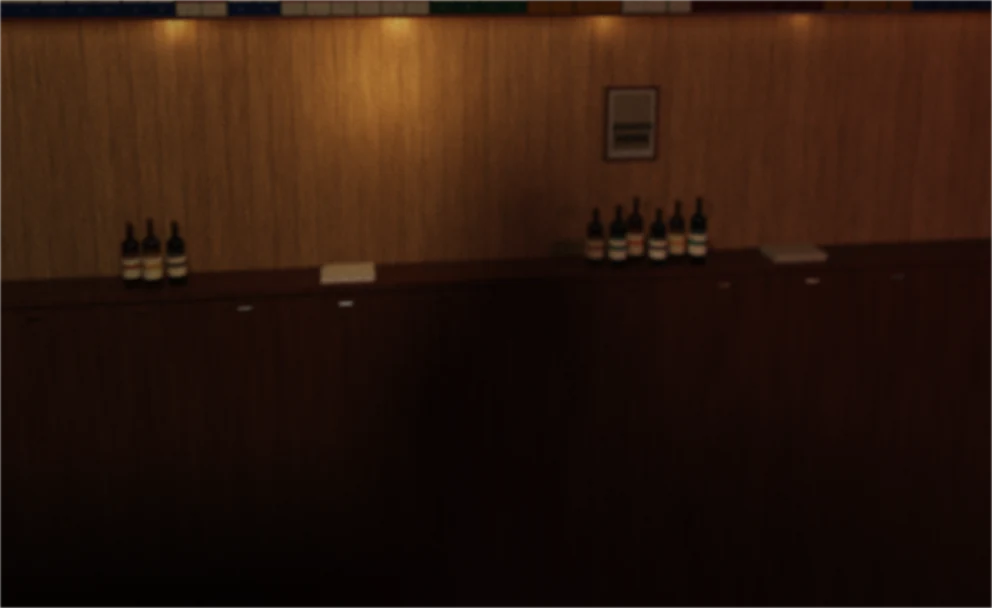
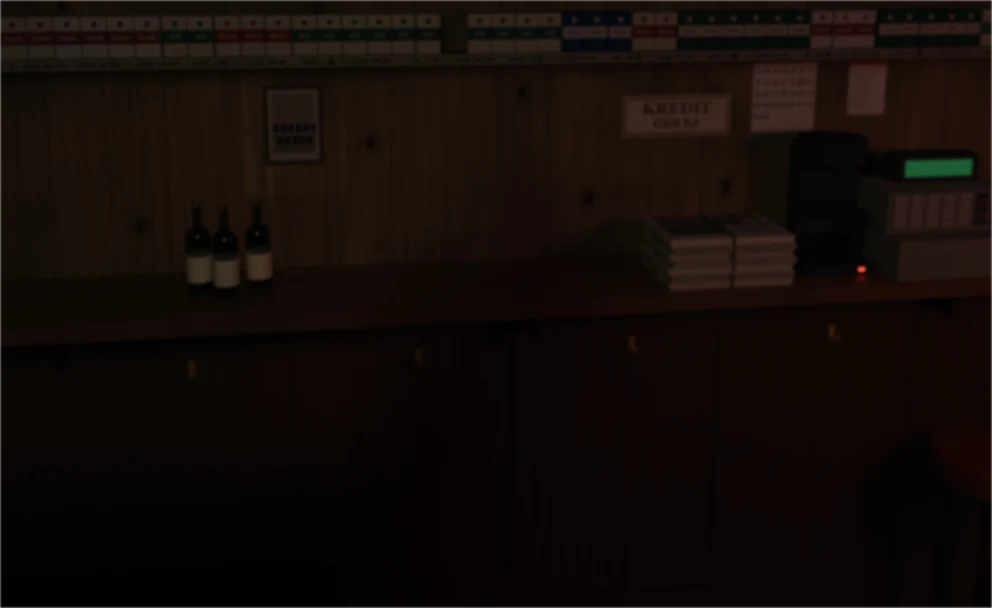
Hasse Backe sitter i samma slitna affär som gänget
Väggen bakom honom såg ut som en hotellbar: smal faner i guldton, blank röd
skänk, vinflaskor och dimmade lampor, och cigarettpaketen hamnade ovanför
bildkanten. Nu är den byggd av rummets egna material: furupanelen med breda
bräder, kvistar och rök, bardisken med fyllningar och mässingskrokar, och
lysrörets ljus. Paketen ligger på en hylla över hans huvud, och på bardisken
står tidningsbunten, kaffebryggaren och kassan. Skylten KREDIT GES EJ sitter
ovanför notan som säger Skrivs på Notts County. Bakom matchlistan är det lugnt.
Alla sex bilder är ombakade, ungefär lika stora som förut.

diff --git a/scripts/hasse/bak.html b/scripts/hasse/bak.html
@@ -1,5 +1,6 @@
 <!doctype html><meta charset="utf-8"><body style="margin:0;background:#222"><canvas id="ut" style="width:900px"></canvas><script type="module">
-// Väggen bakom Hasse Backe i baren: hyllorna, lamporna, flaskorna och bakdisken, spårat med riktigt ljus
+// Väggen bakom Hasse Backe: samma slitna affär som gänget sitter i (rum.js, rum-inredning.js), furupanelen med
+// paketen på en hylla, bardisken med tidningsbunten, kaffebryggaren och kassan, spårat med riktigt ljus
 // (mjuka skuggor, ljus som studsar, blanka ytor, skärpedjup) från figurens kamera (public/rum-hasse-scen.js):
 // framför honom, där han sitter vid pultens hörn. Skarpt där han sitter. Han själv och pulten framför
 // honom syns inte men skuggar och kastar ljus (sidan ritar dem, rum-hasse-3d.js).
@@ -25,7 +26,7 @@ const MARKE = {
 };
 const NAMN = Object.keys(MARKE);
 const CELL = [128, 204];
-const atlas = document.createElement('canvas'); atlas.width = CELL[0] * 8; atlas.height = CELL[1] * 2;
+const atlas = document.createElement('canvas'); atlas.width = 2048; atlas.height = 1024;
 const ax = atlas.getContext('2d');
 NAMN.forEach((n, i) => {
   const [a, b, c, t] = MARKE[n];
@@ -46,11 +47,55 @@ NAMN.forEach((n, i) => {
   for (let r = 0; r < 2; r++) for (let k = 0; k < 6 - r; k++) { const px = x + 12 + (k + r / 2) * 19; const py = CELL[1] * (0.48 + r * 0.17); ax.fillStyle = '#3a3026'; ax.fillRect(px, py, 14, 26); ax.fillStyle = '#d8c4a4'; ax.beginPath(); ax.arc(px + 7, py - 6, 6, 0, 7); ax.fill(); }
 }
 
+// skyltar, lappar och annat som hänger i rummet: [u0, v0, u1, v1] i atlasen
+const region = (x, y, w, h, rita) => { ax.save(); ax.beginPath(); ax.rect(x, y, w, h); ax.clip(); ax.translate(x, y); rita(ax, w, h); ax.restore(); return [x / atlas.width, y / atlas.height, (x + w) / atlas.width, (y + h) / atlas.height]; };
+const KREDIT = region(0, 210, 620, 230, (a, w, h) => {
+  a.fillStyle = '#e2d6b4'; a.fillRect(0, 0, w, h);
+  a.strokeStyle = '#7a1b16'; a.lineWidth = 9; a.strokeRect(16, 16, w - 32, h - 32);
+  a.fillStyle = '#7a1b16'; a.textAlign = 'center'; a.textBaseline = 'middle';
+  a.font = '700 92px Georgia, serif'; a.fillText('KREDIT', w / 2, h * 0.34);
+  a.font = '700 70px Georgia, serif'; a.fillText('GES EJ', w / 2, h * 0.7);
+  a.fillStyle = 'rgba(70,45,10,.22)'; for (let i = 0; i < 26; i++) { const x = (i * 197) % w, y = (i * 83) % h; a.fillRect(x, y, 3 + (i % 5) * 7, 2); }
+});
+const KALENDER = region(630, 210, 340, 480, (a, w, h) => {
+  a.fillStyle = '#e8e0cc'; a.fillRect(0, 0, w, h);
+  a.fillStyle = '#7d2f22'; a.fillRect(0, 0, w, 70);
+  a.fillStyle = '#efe6d2'; a.font = '700 40px Georgia, serif'; a.textAlign = 'center'; a.textBaseline = 'middle'; a.fillText('NOVEMBER', w / 2, 36);
+  a.font = '600 30px Georgia, serif';
+  for (let r = 0; r < 5; r++) for (let k = 0; k < 7; k++) { const n = r * 7 + k + 1; if (n > 30) continue; a.fillStyle = k === 6 ? '#a3271f' : '#2a241c'; a.fillText(String(n), 28 + k * 47, 112 + r * 58); }
+  a.strokeStyle = '#c23a2a'; a.lineWidth = 4; a.beginPath(); a.arc(28 + 5 * 47, 112 + 58, 22, 0, 7); a.stroke();
+  a.fillStyle = 'rgba(70,45,10,.5)'; a.fillRect(0, h - 58, w, 58);
+});
+const lapp = (x, y, f = '#efe8d6') => region(x, y, 230, 310, (a, w, h) => {
+  a.fillStyle = f; a.fillRect(0, 0, w, h);
+  a.fillStyle = '#c0553a'; a.fillRect(0, 0, w, 26);
+  a.strokeStyle = '#27324a'; a.lineWidth = 3;
+  for (let i = 0; i < 11; i++) { a.beginPath(); a.moveTo(16, 50 + i * 22); let px = 16; for (let k = 0; k < 7; k++) { px += 8 + ((x + i * 7 + k * 13) % 26); a.lineTo(px, 50 + i * 22 + ((k * 7 + i) % 5) - 2); } a.stroke(); }
+});
+const LAPP = lapp(980, 210);
+const KASSA = region(0, 450, 440, 300, (a, w, h) => {
+  a.fillStyle = '#a7a08c'; a.fillRect(0, 0, w, h);
+  for (let r = 0; r < 5; r++) for (let k = 0; k < 7; k++) { a.fillStyle = k > 4 ? (r % 2 ? '#7d2f22' : '#3a3a34') : '#e0d8c2'; a.fillRect(20 + k * 58, 24 + r * 54, 44, 42); }
+});
+const PRIS = region(0, 760, 1024, 34, (a, w, h) => {
+  a.fillStyle = '#b5ab90'; a.fillRect(0, 0, w, h);
+  a.fillStyle = '#26221c'; a.font = '600 20px Georgia, serif'; a.textBaseline = 'middle';
+  for (let i = 0; i < 16; i++) { a.fillStyle = '#26221c'; a.fillText(`${17 + (i * 5) % 9}:50`, 6 + i * 64, h / 2); a.fillStyle = '#8a8270'; a.fillRect(60 + i * 64, 2, 2, h - 4); }
+});
+const TIDNING = region(1560, 530, 300, 300, (a, w, h) => {
+  a.fillStyle = '#d6cfba'; a.fillRect(0, 0, w, h);
+  a.fillStyle = '#a3271f'; a.fillRect(14, 12, w - 28, 44);
+  a.fillStyle = '#efe6d2'; a.font = '700 30px Georgia, serif'; a.textAlign = 'center'; a.textBaseline = 'middle'; a.fillText('EXTRA', w / 2, 35);
+  a.fillStyle = '#1e1a15'; a.fillRect(14, 68, w - 28, 26); a.fillRect(14, 102, w - 90, 26);
+  a.fillStyle = '#6a6455'; a.fillRect(14, 140, 150, 110);
+  a.fillStyle = 'rgba(30,26,21,.55)'; for (let i = 0; i < 8; i++) a.fillRect(176, 142 + i * 14, w - 192, 5);
+});
+
 // ---------- scenen ----------
 const P = [];
 let slump = 4711; const rnd = () => (slump = (slump * 16807) % 2147483647) / 2147483647;
 const RGB = (h) => [parseInt(h.slice(1, 3), 16) / 255, parseInt(h.slice(3, 5), 16) / 255, parseInt(h.slice(5, 7), 16) / 255].map((v) => v ** 2.2);
-// typ: 0 låda, 1 stående cylinder, 2 ellipsoid, 3 liggande cylinder (x). mat: 0 färg, 1 furu, 2 mahogny blank, 3 etikett, 4 glas, 5 mässing, 6 lyser, 7 osynlig för kameran, 8 mörkt trä, 9 blank färg
+// typ: 0 låda, 1 stående cylinder, 2 ellipsoid, 3 liggande cylinder (x). mat: 0 färg, 1 furu, 3 etikett, 4 glas, 5 mässing, 6 lyser, 7 osynlig för kameran, 8 bardiskens front, 10 pulten, 11 bardiskens skiva, 12 aluminium, 13 krom, 15 papper, 16 vinyl, 17 tidning
 const box = (c, h, mat, col = [1, 1, 1], uv = [0, 0, 0, 0]) => P.push({ t: 0, c, h, mat, col, uv });
 const cyl = (c, r, hh, mat, col = [1, 1, 1]) => P.push({ t: 1, c, h: [r, hh, r], mat, col, uv: [0, 0, 0, 0] });
 const ell = (c, h, mat, col = [1, 1, 1]) => P.push({ t: 2, c, h, mat, col, uv: [0, 0, 0, 0] });
@@ -71,72 +116,121 @@ grupp(() => {
   box([8000, 0, 2000], [20, 4000, 3000], 0, RGB('#3a2a1c'));
   box([0, 0, 5200], [9000, 4000, 20], 0, RGB('#2a2018'));
 });
-// hyllorna
-const HYLLA = [800, 980];
-const hylla = (y) => {
-  box([0, y - 7, VAGG + 96], [7000, 7, 96], 8);
-  box([0, y - 7, VAGG + 196], [7000, 8, 3], 8);
-  let x = -5000;
-  const rad = [];
-  let sv = 0;
-  while (x < 2400) {
+const T = -300; // bakdiskens ovansida, så som bardisken i rummet: skiva, fronten med fyllningar i ramar, mässingskrokar
+const TJ = 70, DJ = 560, FR = 340;
+const hylla = (y, x0, x1, ram = 8) => {
+  box([(x0 + x1) / 2, y - 12, VAGG + 110], [(x1 - x0) / 2, 12, 110], ram);
+  box([(x0 + x1) / 2, y - 22, VAGG + 222], [(x1 - x0) / 2, 22, 3], 3, [1, 1, 1], PRIS);
+  let x = x0 + 40;
+  while (x < x1 - 60) {
     if (rnd() < 0.09) { x += 40 + rnd() * 70; continue; }
     const n = 2 + Math.floor(rnd() * 5);
     const m = NAMN[Math.floor(rnd() * NAMN.length)];
-    for (let i = 0; i < n; i++) { rad.push([x, m]); x += 99; }
-    x += 2 + rnd() * 3;
-    sv++;
-  }
-  for (const [px, m] of rad) {
     const i = NAMN.indexOf(m);
-    const fram = 150 + rnd() * 26;
-    const hh = 79;
-    const a = MARKE[m];
-    box([px, y + hh, VAGG + fram / 2], [47, hh, fram / 2], 3, RGB(a[0]), [i * CELL[0] / atlas.width, 0, (i + 1) * CELL[0] / atlas.width, CELL[1] / atlas.height]);
+    for (let k = 0; k < n && x < x1 - 60; k++) {
+      const fram = 150 + rnd() * 26, hh = 79;
+      box([x, y + hh, VAGG + fram / 2], [47, hh, fram / 2], 3, RGB(MARKE[m][0]), [i * CELL[0] / atlas.width, 0, (i + 1) * CELL[0] / atlas.width, CELL[1] / atlas.height]);
+      x += 99;
+    }
+    x += 2 + rnd() * 3;
   }
 };
-grupp(() => hylla(HYLLA[0]));
-grupp(() => hylla(HYLLA[1]));
-// ljuslisten under nedre hyllan
-grupp(() => { box([0, HYLLA[0] - 19, VAGG + 60], [7000, 3, 6], 6, [1.5, 1.05, .62]); });
-// bakdisken
+// en lapp, skylt eller tavla på väggen
+const papper = (x, y, hx, hy, uv, z = VAGG + 4, mat = 15) => box([x, y, z], [hx, hy, 1.5], mat, [1, 1, 1], uv);
+
+// bardisken
 grupp(() => {
-  const T = -300;
-  box([0, T - 15, VAGG + 130], [7000, 15, 130], 8);
-  box([0, (T - 30 + GOLV) / 2, VAGG + 110], [7000, (T - 30 - GOLV) / 2, 110], 8);
-  // lådfronterna
-  for (let x = -2900; x < 3000; x += 410) { box([x, T - 92, VAGG + 222], [195, 58, 3], 8); xcyl([x, T - 92, VAGG + 230], 7, 26, 5, [0.75, 0.56, 0.3]); }
+  box([0, T - TJ / 2, VAGG + DJ / 2], [7000, TJ / 2, DJ / 2], 11);
+  box([0, (T - TJ + GOLV) / 2, VAGG + FR / 2], [7000, (T - TJ - GOLV) / 2, FR / 2], 8);
 });
-// flaskor, radion och sakerna på bakdisken
-const flaska = (x, z, col, h = 1, etikett = '#e6dcc0') => {
-  const T = -300;
-  cyl([x, T + 92 * h, z], 37, 92 * h, 4, col);
-  ell([x, T + 184 * h, z], [37, 30, 37], 4, col);
-  cyl([x, T + 232 * h, z], 13, 34 * h, 4, col);
-  cyl([x, T + 270 * h, z], 14.5, 11, 5, [0.55, 0.42, 0.24]);
-  cyl([x, T + 88 * h, z], 38, 40 * h, 0, RGB(etikett));
-  cyl([x, T + 96 * h, z], 38.4, 11 * h, 0, col.map((v) => Math.min(1, v * 3 + 0.05)));
+grupp(() => {
+  const z = VAGG + FR + 8, y0 = T - TJ;
+  box([0, y0 - 80, z], [7000, 80, 8], 8);
+  box([0, y0 - 1300, z], [7000, 80, 8], 8);
+  for (let x = -4200; x < 4000; x += 900) box([x, y0 - 700, z], [55, 680, 8], 8);
+});
+grupp(() => {
+  const z = VAGG + FR + 18, y = T - TJ - 215;
+  for (let x = -3750; x < 3400; x += 900) {
+    box([x, y, z], [13, 34, 3], 0, RGB('#b08c48'));
+    box([x, y - 16, z + 30], [5, 5, 30], 0, RGB('#b08c48'));
+    ell([x, y - 2, z + 58], [6, 17, 6], 0, RGB('#b08c48'));
+  }
+});
+// konsolerna i järn under skivan
+grupp(() => {
+  for (let x = -3300; x < 3400; x += 1800) box([x, T - TJ - 60, VAGG + FR + 90], [9, 50, 80], 0, RGB('#1d1611'));
+});
+// en barstol som gängets, längst till höger
+const stol = (x, z) => {
+  const Y = -1050;
+  cyl([x, Y, z], 262, 44, 16, RGB('#6e2320'));
+  ell([x, Y + 44, z], [262, 34, 262], 16, RGB('#6e2320'));
+  cyl([x, Y - 56, z], 175, 12, 13, [0.72, 0.72, 0.7]);
+  for (const [a, b] of [[-1, -1], [1, -1], [-1, 1], [1, 1]]) cyl([x + a * 130, Y - 620, z + b * 130], 18, 560, 13, [0.72, 0.72, 0.7]);
 };
+grupp(() => { stol(2240, VAGG + 700); });
+
+// flaskor som gängets, i verklig storlek
+const flaska = (x, z, col, h = 1, etikett = '#e6dcc0') => {
+  cyl([x, T + 120 * h, z], 50, 120 * h, 4, col);
+  ell([x, T + 240 * h, z], [50, 44, 50], 4, col);
+  cyl([x, T + 310 * h, z], 17, 58 * h, 4, col);
+  cyl([x, T + 372 * h, z], 19, 8, 13, [0.7, 0.68, 0.6]);
+  cyl([x, T + 118 * h, z], 51, 52 * h, 0, RGB(etikett));
+};
+// tre flaskor mellan matchlistan och hans axel (bakom listan ska det vara lugnt)
 grupp(() => {
-  const Z = VAGG + 150;
-  [[640, '#5a2a10'], [730, '#20402a'], [818, '#6a3a12'], [910, '#2a1a0c'], [1008, '#70541c'], [1090, '#20402a']].forEach(([x, c], i) => flaska(x, Z + (i % 2) * 40, RGB(c), 0.92 + (i % 3) * 0.08, i % 2 ? '#e6dcc0' : '#cfc09a'));
-  [[-1300, '#5a2a10'], [-1212, '#70541c'], [-1124, '#2a1a0c']].forEach(([x, c], i) => flaska(x, Z + (i % 2) * 40, RGB(c), 0.95 + (i % 2) * 0.1, '#d8ccac'));
-  // radion
-  const rx = -2050, ry = -300, rz = VAGG + 150;
-  box([rx, ry + 88, rz], [150, 88, 62], 8);
-  box([rx - 54, ry + 88, rz + 63], [80, 66, 2], 0, RGB('#b8a070'));
-  for (let k = 0; k < 6; k++) box([rx - 54, ry + 40 + k * 20, rz + 66], [76, 2.4, 1], 8);
-  xcyl([rx + 84, ry + 128, rz + 66], 20, 5, 5, [0.7, 0.52, 0.28]);
-  xcyl([rx + 84, ry + 58, rz + 66], 20, 5, 5, [0.7, 0.52, 0.28]);
-  // tidningar och kuponger
-  box([-430, -293, VAGG + 140], [110, 7, 80], 0, RGB('#d8d0bc'));
-  box([-422, -279, VAGG + 140], [104, 7, 76], 0, RGB('#c8bfa8'));
-  box([1560, -285, VAGG + 140], [120, 15, 80], 0, RGB('#b0a890'));
+  const Z = VAGG + 300;
+  [[-1010, 0], [-900, 60], [-780, -10]].forEach(([x, dz]) => flaska(x, Z + dz, RGB('#2c4a2c'), 1));
 });
-// lagfotot i ram
+// tidningsbunten: returerna, med snöre
 grupp(() => {
-  box([830, 300, VAGG + 8], [122, 168, 8], 8);
-  box([830, 300, VAGG + 17], [104, 150, 1], 3, [1, 1, 1], [7 * CELL[0] / atlas.width, 0, 8 * CELL[0] / atlas.width, CELL[1] / atlas.height]);
+  const x = 1120, z = VAGG + 320;
+  const ton = ['#a79f88', '#8f8873', '#b0a890', '#98907a', '#a79f88', '#8f8873', '#b5ad96'];
+  ton.forEach((c, i) => {
+    const o = [[0, 0], [9, -6], [-7, 5], [11, 3], [-4, -7], [6, 6], [-3, 0]][i];
+    const y = T + 15 + i * 30;
+    box([x + o[0], y, z + o[1]], [262, 15, 188], i === ton.length - 1 ? 17 : 0, RGB(c), TIDNING);
+  });
+  const hojd = 7 * 15 + 2;
+  box([x, T + hojd, z], [5, hojd + 1, 195], 0, RGB('#5c4e34'));
+  box([x, T + hojd, z], [268, hojd + 1, 5], 0, RGB('#5c4e34'));
+});
+// kaffebryggaren: påtår ×4
+grupp(() => {
+  const x = 1640, z = VAGG + 290;
+  box([x, T + 22, z], [150, 22, 135], 0, RGB('#2c2a25'));
+  box([x, T + 270, z - 92], [130, 270, 40], 0, RGB('#2c2a25'));
+  cyl([x, T + 520, z - 10], 142, 52, 0, RGB('#2c2a25'));
+  cyl([x, T + 150, z + 25], 104, 104, 4, [0.5, 0.5, 0.48]);
+  cyl([x, T + 92, z + 25], 100, 46, 0, RGB('#1a0d06'));
+  box([x, T + 262, z + 25], [108, 8, 108], 0, RGB('#2c2a25'));
+  box([x + 118, T + 150, z + 25], [12, 58, 14], 0, RGB('#2c2a25'));
+  box([x + 90, T + 22, z + 136], [12, 7, 2], 6, [2.2, 0.2, 0.12]);
+});
+// kassaapparaten
+grupp(() => {
+  const x = 2130, z = VAGG + 300;
+  box([x, T + 85, z], [300, 85, 230], 0, RGB('#7c7562'));
+  box([x, T + 255, z - 60], [285, 90, 160], 0, RGB('#857e6a'));
+  box([x, T + 262, z + 102], [280, 80, 3], 3, [1, 1, 1], KASSA);
+  box([x + 40, T + 405, z - 120], [190, 62, 60], 0, RGB('#2e2e2a'));
+  box([x + 40, T + 408, z - 58], [158, 36, 2], 6, [0.025, 0.13, 0.055]);
+});
+
+// Paketen på en hylla över hans huvud (hjässan står ungefär vid y = 600, och bilden slutar strax över 800).
+grupp(() => hylla(640, -3800, 2900));
+// lagfotot, och furan runt det som inte har mörknat lika mycket där en större tavla har hängt (furu)
+grupp(() => {
+  box([-640, 330, VAGG + 8], [122, 168, 8], 8);
+  box([-640, 330, VAGG + 17], [104, 150, 1], 3, [1, 1, 1], [7 * CELL[0] / atlas.width, 0, 8 * CELL[0] / atlas.width, CELL[1] / atlas.height]);
+});
+// det som sitter på panelen: skylten (notan på pulten säger annat), kalendern och en lapp
+grupp(() => {
+  papper(1040, 330, 250, 92, KREDIT);
+  papper(1540, 410, 150, 212, KALENDER);
+  papper(1940, 440, 90, 124, LAPP);
 });
 // han själv och pulten framför honom: syns inte, men skuggar och kastar ljus
 const HAN = G.length;
@@ -164,19 +258,10 @@ grupp(() => {
 const LJ = q.get('dag') ? [
   { p: [4700, 760, 3100], r: 1050, e: [1, 1, 1].map((v) => v * +(q.get('ds') || 30)) },
 ] : [
-  // nyckel: framifrån till vänster, varm (samma riktning som figurens ljus, rum-hasse-arm.js)
-  { p: [-700, 1450, 2100], r: 460, e: [1.0, 0.86, 0.68].map((v) => v * 13) },
-  // lampan bakom honom: en varm gloria på väggen
-  { p: [-260, 520, -800], r: 90, e: [1.0, 0.72, 0.42].map((v) => v * 9) },
-  // ljuslisten
-  { p: [-1100, HYLLA[0] - 26, VAGG + 66], r: 26, e: [1.0, 0.74, 0.46].map((v) => v * 12) },
-  { p: [-200, HYLLA[0] - 26, VAGG + 66], r: 26, e: [1.0, 0.74, 0.46].map((v) => v * 14) },
-  { p: [700, HYLLA[0] - 26, VAGG + 66], r: 26, e: [1.0, 0.74, 0.46].map((v) => v * 8) },
-  { p: [1600, HYLLA[0] - 26, VAGG + 66], r: 26, e: [1.0, 0.74, 0.46].map((v) => v * 4) },
-  // en lampa längre bort längs baren, så att den fortsätter in i mörkret
-  { p: [-3300, 560, VAGG + 300], r: 80, e: [1.0, 0.7, 0.4].map((v) => v * 7) },
+  // svagt från gatan och lamporna i affären (nyckeln i figurens riktning, rum-hasse-arm.js)
+  { p: [-700, 1450, 2100], r: 460, e: [1.0, 0.9, 0.76].map((v) => v * 4.5) },
   // neonskylten i affärens fönster till höger: rött
-  { p: [2600, 650, 1500], r: 260, e: [1.0, 0.16, 0.1].map((v) => v * 12) },
+  { p: [2600, 650, 1500], r: 260, e: [1.0, 0.16, 0.1].map((v) => v * 9) },
   // gatan genom fönstret till höger: kallt
   { p: [3800, 1300, 3400], r: 620, e: [0.55, 0.68, 1.0].map((v) => v * 3.6) },
   // ?lys=1: lysröret i affärens tak är tänt, som i rummet från sex på morgonen till midnatt (rum-folk.js):
@@ -245,7 +330,6 @@ Hit skarning(vec3 ro, vec3 rd, bool kamera) {
 bool skymd(vec3 ro, vec3 rd, float mx) {
   vec3 ird = 1. / rd;
   for (int g = 0; g < ${G.length}; g++) {
-    if (g == 3) continue; // ljuslisten skymmer inget
     if (!slab(ro, ird, uG0[g].xyz, uG1[g].xyz, mx)) continue;
     for (int i = uGi[g].x; i < uGi[g].y; i++) { if (int(data(i, 1).w) == 4 || int(data(i, 1).w) == 6) continue; Hit h; h.t = mx; h.id = -1; prova(i, ro, rd, ird, h); if (h.id >= 0) return true; }
   }
@@ -255,23 +339,40 @@ float h1(float x) { return fract(sin(x * 91.17) * 43758.5453); }
 float h2(vec2 p) { return fract(sin(dot(p, vec2(127.1, 311.7))) * 43758.5453); }
 float nz(vec2 p) { vec2 i = floor(p), f = fract(p); f = f * f * (3. - 2. * f); return mix(mix(h2(i), h2(i + vec2(1, 0)), f.x), mix(h2(i + vec2(0, 1)), h2(i + vec2(1, 1)), f.x), f.y); }
 float fbm(vec2 p) { float a = .5, s = 0.; for (int i = 0; i < 4; i++) { s += a * nz(p); p = p * 2.03 + 11.; a *= .5; } return s; }
+// Furupanelen som i rummet (furu i rum.js): breda bräder med mörka fogar, kvistar och ådring, mörkare av
+// röken upptill och med fläckar.
 vec3 furu(vec3 p) {
-  float bb = 92., bx = floor(p.x / bb), fx = p.x / bb - bx;
+  float bb = 233., bx = floor(p.x / bb), fx = p.x / bb - bx;
   float s = h1(bx + 3.);
-  vec2 g = vec2(p.x * .12 + s * 40., p.y * .006 + s * 91.);
-  float a = fbm(g), b = fbm(g * vec2(3.2, 1.2) + 7.);
-  vec3 c = mix(vec3(.46, .26, .11), vec3(.68, .43, .20), a * .55 + .35 * s);
-  c *= .78 + .3 * smoothstep(.3, .7, b);
-  c *= 1. - .18 * smoothstep(.48, .62, fbm(vec2(p.x * .4 + s * 13., p.y * .02)));
-  float spar = smoothstep(.0, .022, fx) * smoothstep(.0, .022, 1. - fx);
-  return c * .7 * (.12 + .88 * spar);
+  vec3 ton = mix(vec3(.34, .205, .09), vec3(.46, .29, .125), s);
+  vec2 g = vec2(p.x * .045 + s * 40., p.y * .0032 + s * 91.);
+  float a = fbm(g), b = fbm(g * vec2(3.4, 1.5) + 7.);
+  vec3 c = ton * (.7 + .55 * a) * (.84 + .28 * smoothstep(.3, .7, b));
+  for (int i = 0; i < 3; i++) {
+    float fi = float(i);
+    float ky = (h1(bx * 7.3 + fi * 3.1) - .5) * 2600., kx = (.22 + .56 * h1(bx * 5.1 + fi)) * bb;
+    float rs = 15. + 14. * h1(bx + fi * 9.);
+    if (h1(bx * 2.7 + fi * 5.) < .4) continue;
+    vec2 d = vec2((p.x - bx * bb - kx) / rs, (p.y - ky) / (rs * 1.5));
+    float r = length(d);
+    c *= 1. - .34 * smoothstep(3.2, 1., r);
+    c = mix(c, vec3(.05, .021, .007), smoothstep(1.05, .65, r) * .92);
+  }
+  float rok = smoothstep(120., 1050., p.y + 420. * (fbm(vec2(p.x * .0014, 3.)) - .5));
+  c *= mix(1., .5, rok);
+  c *= 1. - .32 * smoothstep(.42, .72, fbm(p.xy * vec2(.0021, .0033) + 5.));
+  if (abs(p.x + 640.) < 215. && abs(p.y - 300.) < 275.) c *= 1.26; // där en större tavla har hängt
+  float spar = smoothstep(0., .014, fx) * smoothstep(0., .014, 1. - fx);
+  return c * .62 * (.07 + .93 * spar);
 }
-vec3 mahogny(vec3 p, float mork) {
-  vec2 g = vec2(p.x * .0035 + p.y * .002, p.z * .05 + p.y * .03);
+// bardisken som i rummet: brun mahogny, skivan ljusare och med plankor (mahogny i rum-inredning.js)
+vec3 barTra(vec3 p, bool skiva) {
+  vec2 g = skiva ? vec2(p.x * .0035, p.z * .05) : vec2(p.y * .0032, p.x * .05);
   float a = fbm(g * vec2(1., 2.)), b = fbm(g * vec2(.6, 7.) + 3.);
-  vec3 c = mix(vec3(.13, .035, .016), vec3(.30, .095, .04), a);
-  c *= .78 + .36 * b;
-  return c * mork;
+  vec3 c = skiva ? mix(vec3(.13, .048, .018), vec3(.21, .08, .032), a) : mix(vec3(.058, .021, .008), vec3(.105, .037, .015), a);
+  c *= .78 + .4 * b;
+  if (skiva) { float f = fract(p.z / 186.); c *= .55 + .45 * smoothstep(0., .02, f) * smoothstep(0., .02, 1. - f); }
+  return c;
 }
 // pultens trä: samma bruna som i rummet, med ådringen längs pulten
 vec3 pultTra(vec3 p) {
@@ -300,8 +401,12 @@ vec3 spara(vec3 ro, vec3 rd) {
     float gloss = 0.; float grov = .04;
     if (m == 6) { L += T * c; break; }
     if (m == 1) c = furu(p);
-    if (m == 2) { c = mahogny(p, 1.); gloss = 1.; grov = .05 + .03 * fbm(p.xz * .02); n = normalize(n + .012 * vec3(fbm(p.xz * .03) - .5, 0., fbm(p.xz * .03 + 9.) - .5)); }
-    if (m == 8) { c = mahogny(p.yxz, .56); gloss = .42; grov = .2; }
+    if (m == 8) { c = barTra(p, false); gloss = .3; grov = .3; }
+    if (m == 11) { c = barTra(p, true); gloss = .55; grov = .22; }
+    if (m == 17) { vec3 lc = p - data(h.id, 0).xyz; if (h.n.y > .5) { vec2 uv = lc.xz / d1.xz * .5 + .5; c = textureLod(uA, vec2(mix(d3.x, d3.z, uv.x), mix(d3.y, d3.w, uv.y)), 0.).rgb * .62; } }
+    if (m == 16) { gloss = .6; grov = .18; }
+    if (m == 13) { vec3 r = reflect(rd, n); rd = normalize(r + (vec3(rn(), rn(), rn()) - .5) * .18); ro = p + n * .5; T *= c; spec = true; forsta = false; continue; }
+    if (m == 15) { if (abs(h.n.z) > .5) { vec3 lc = p - data(h.id, 0).xyz; vec2 uv = lc.xy / d1.xy * .5 + .5; c = textureLod(uA, vec2(mix(d3.x, d3.z, uv.x), mix(d3.w, d3.y, uv.y)), 0.).rgb * .62; } else c = vec3(.3); }
     if (m == 10) { c = pultTra(p); gloss = .5; grov = .34; }
     if (m == 12 && rn() < .4) { // listen i aluminium: lite blank, annars sin egen färg
       vec3 r = reflect(rd, n); rd = normalize(r + (vec3(rn(), rn(), rn()) - .5) * .5); ro = p + n * .5; T *= c; spec = true; forsta = false; continue;
@@ -353,7 +458,7 @@ void main() {
   // tunn lins: skarpt där han sitter
   float tf = ${(D - 120).toFixed(1)} / -dc.z;
   vec3 mal = dc * tf;
-  float a = rn() * 2. * PI, r = sqrt(rn()) * 30.;
+  float a = rn() * 2. * PI, r = sqrt(rn()) * 20.;
   vec3 o = vec3(r * cos(a), r * sin(a), 0.);
   vec3 rc = normalize(mal - o);
   vec3 ro = ${v3(KP)} + o.x * ${v3(KR)} + o.y * ${v3(KU)};

diff --git a/public/rum-hasse.js b/public/rum-hasse.js
@@ -161,7 +161,7 @@ window.RumHasse = (() => {
   }
 
   // väggen bakom honom (scripts/hasse/bak.html), med sina mått i rum-hasse-scen.js (BAK): på natten bara
-  // barens lampor, annars också i lysrörets ljus (ljuset nedan); dagsljuset genom fönstret är en egen bild
+  // neonskyltens och gatans sken, annars också i lysrörets ljus (ljuset nedan); dagsljuset genom fönstret är en egen bild
   const hogt = () => (hog() ? '-hog' : '');
   const bakbild = (lys = false) => `rum/hasse-bak${lys ? '-lys' : ''}${hogt()}.webp`;
   const dagbild = () => `rum/hasse-bak-dag${hogt()}.webp`;

diff --git a/scripts/hasse/README.md b/scripts/hasse/README.md
@@ -4,7 +4,7 @@
 
 - `hasse-hand.bin`: handmodellen, både till figuren och till handen på pulten i rummet (`public/rum-hasse-hand.js`). `node scripts/hasse/hand.mjs`
 - `hasse-atlas.webp`: fotot utan armar, kavajärmen uträtad och huden. `node scripts/hasse/baka.mjs atlas`, sedan `cwebp -q 84 -alpha_q 90 -m 6 atlas.png -o public/rum/hasse-atlas.webp`
-- `hasse-bak.webp`: väggen bakom honom i baren (hyllorna med cigarettpaketen, lamporna, flaskorna och bakdisken), spårad med riktigt ljus i webbläsarens grafikkort från figurens kamera, framför honom vid pultens hörn och med skärpedjup (`public/rum-hasse-scen.js`). `node scripts/hasse/baka.mjs bak 400`, sedan `cwebp -q 88 -m 6 -sharp_yuv bak.png -o public/rum/hasse-bak.webp`. Med `bak-hog` blir det `bak-hog.png` och `hasse-bak-hog.webp` till telefonen på höjden. Med `bak-lys` och `bak-lys-hog` blir det samma vägg med lysröret i affärens tak tänt (`hasse-bak-lys.webp`, `hasse-bak-lys-hog.webp`), som sidan visar från sex på morgonen till midnatt; ljusen står sist i `LJ` i `bak.html` (`?lys=1`). Med `bak-dag` och `bak-dag-hog` blir det bara dagsljuset genom affärens stora fönster till höger, i vitt och utan barens lampor (`hasse-bak-dag.webp`, `hasse-bak-dag-hog.webp`, `?dag=1`); sidan lägger det på väggen i fönstrets färg och styrka efter klockan och vädret (`vagg` i `public/rum-hasse.js`), så ljuset ska stå i samma riktning som `FONSTER` i `public/rum-hasse-arm.js`. Det bakades om 2026-11-07 med grafikkort, 400 varv, när han flyttades till pultens hörn och kameran närmare och högre. Bildernas mått och var kamerans axel träffar dem står i `BAK` i `rum-hasse-scen.js`; sidan lägger bilden efter dem, så de ska ändras tillsammans. Ett varv tar ungefär en tiondels sekund med grafikkort (11 s med mjukvarugrafik).
+- `hasse-bak.webp`: väggen bakom honom, samma slitna affär som gänget sitter i (furupanelen med paketen på en hylla, skylten och bardisken med tidningsbunten, kaffebryggaren och kassan), spårad med riktigt ljus i webbläsarens grafikkort från figurens kamera, framför honom vid pultens hörn och med skärpedjup (`public/rum-hasse-scen.js`). `node scripts/hasse/baka.mjs bak 400`, sedan `cwebp -q 88 -m 6 -sharp_yuv bak.png -o public/rum/hasse-bak.webp`. Med `bak-hog` blir det `bak-hog.png` och `hasse-bak-hog.webp` till telefonen på höjden. Med `bak-lys` och `bak-lys-hog` blir det samma vägg med lysröret i affärens tak tänt (`hasse-bak-lys.webp`, `hasse-bak-lys-hog.webp`), som sidan visar från sex på morgonen till midnatt; ljusen står sist i `LJ` i `bak.html` (`?lys=1`). Med `bak-dag` och `bak-dag-hog` blir det bara dagsljuset genom affärens stora fönster till höger, i vitt och utan affärens andra ljus (`hasse-bak-dag.webp`, `hasse-bak-dag-hog.webp`, `?dag=1`); sidan lägger det på väggen i fönstrets färg och styrka efter klockan och vädret (`vagg` i `public/rum-hasse.js`), så ljuset ska stå i samma riktning som `FONSTER` i `public/rum-hasse-arm.js`. Det bakades om 2026-11-08 med grafikkort, 400 varv, när väggen blev rummets: furan (`furu`) ska ha samma färg som i `furu()` i `public/rum.js`, bardisken (`barTra`) som `bardisk` i `public/rum-inredning.js`, och bakom matchlistan till vänster ska det vara lugnt. Bildernas mått och var kamerans axel träffar dem står i `BAK` i `rum-hasse-scen.js`; sidan lägger bilden efter dem, så de ska ändras tillsammans. Ett varv tar ungefär en tiondels sekund med grafikkort (11 s med mjukvarugrafik).
 
 Ändras kameran, baren eller pulten (`DISK`, `HORN`) i `rum-hasse-scen.js` ska väggen bakas om. Pulten framför honom bakas inte: sidan ritar den en gång i hans värld (`diskBild` i `public/rum-hasse-3d.js`), med väggens bild svagt speglad i träet. I bakningen finns den och han själv bara som något som skuggar och kastar ljus.
 

diff --git a/README.md b/README.md
@@ -4485,8 +4485,9 @@ längst ut på pulten står hans kaffe vid notan, och där ligger hans hand. Ett
 och kameran slår snabbt åt vänster till honom. Där sitter han vid pultens hörn: samma pult som man
 står vid, som går fram längs ens högra sida och viker av åt vänster förbi honom. Han sitter på andra
 sidan om den, vänd mot en, med underarmarna på pulten, kaffet och notan vid den vänstra handen i hörnet
-och cigarren i askkoppen vid den högra. Bakom honom är barens vägg med hyllorna,
-cigarettpaketen och lamporna. Samtalet står i en spalt till vänster om honom (på höjden under honom)
+och cigarren i askkoppen vid den högra. Bakom honom är samma slitna affär som gänget sitter i: furupanelen
+med paketen på en hylla, skylten *Kredit ges ej* (notan vid hans hand säger *Skrivs på Notts County*), och
+bardisken med tidningsbunten, kaffebryggaren och kassan. Samtalet står i en spalt till vänster om honom (på höjden under honom)
 och kommer när kameran har stannat. Ett klick på bilden utanför samtalet går tillbaka, liksom Esc. Medan han väntar på att man ska välja gör han något litet då och då – trummar med fingrarna,
 tittar bort, nickar för sig själv, suckar (se *Vilan*) – och ibland njuter han av kaffet (på ett av sex
 sätt) eller av cigarren (på ett av elva), varannan gång. I rummet ligger kaffet, notan och
@@ -4577,7 +4578,7 @@ Från sex på morgonen till midnatt är lysröret i affärens tak tänt, som i r
 är då en egen bild spårad med röret framför baren och affären i dess sken till höger
 (`hasse-bak-lys.webp`), och figuren, disken och koppen får ett brett ljus från affären och lite mer
 ljus överallt (`uLys` i `LJUS`, `LYS`), medan neonen och gatans kalla ljus syns mindre. Mellan midnatt
-och sex är lysröret släckt och baren lyses bara av sina egna lampor (`hasse-bak.webp`).
+och sex är lysröret släckt och väggen ligger i neonskyltens och gatans svaga sken (`hasse-bak.webp`).
 
 Dagsljuset faller in genom affärens stora fönster till höger, efter samma klocka och väder som utsikten
 i rummet (`RumUte.light`): så starkt som det är ljust ute, och i himlens färg nere vid taken, men vitare,
